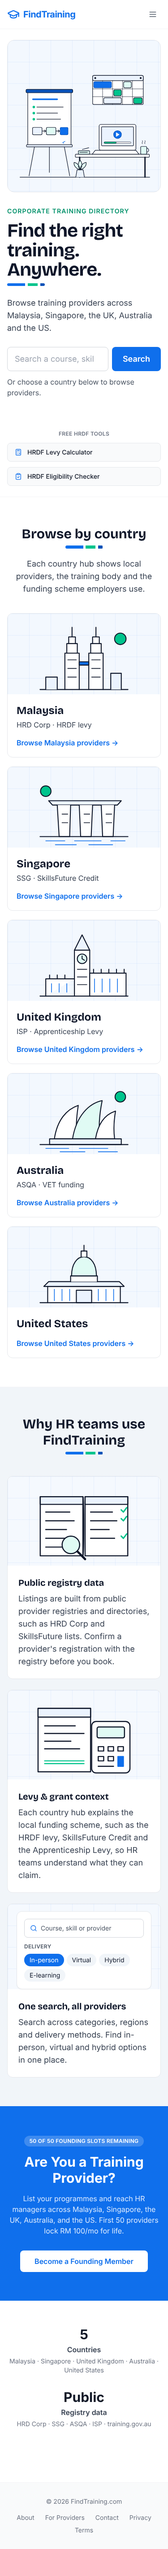
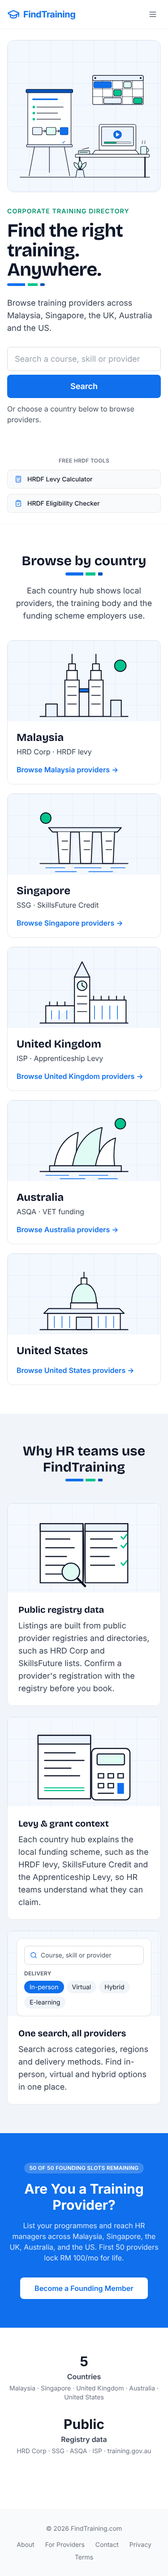
findtraining homepage: stack hero search below sm (fits 320)
The 375 clipping in the scratch shot predated the grid-cols-1 fix in dcb1f7d. Re-measured:
scrollWidth == innerWidth at 375 and 320; image-density PASS, hero 39% / 38%.

Claude-Session: https://claude.ai/code/session_01Rv3nrotK7PECwtWeSiUTNL

Changed region(s): [[0.0293, 0.0311, 0.968, 0.9648]]

diff --git a/apps/findtraining/src/app/page.tsx b/apps/findtraining/src/app/page.tsx
@@ -94,7 +94,7 @@ export default async function GlobalHomePage() {
             </p>
 
             {/* Global search */}
-            <form action="/search" method="GET" className="mt-7 flex gap-2">
+            <form action="/search" method="GET" className="mt-7 flex flex-col gap-2 sm:flex-row">
               <input
                 name="q"
                 type="search"
